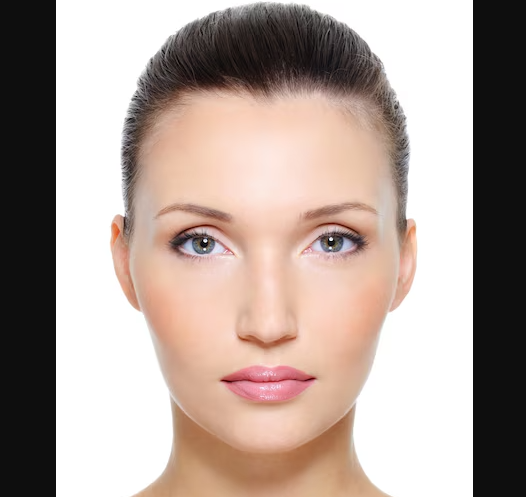
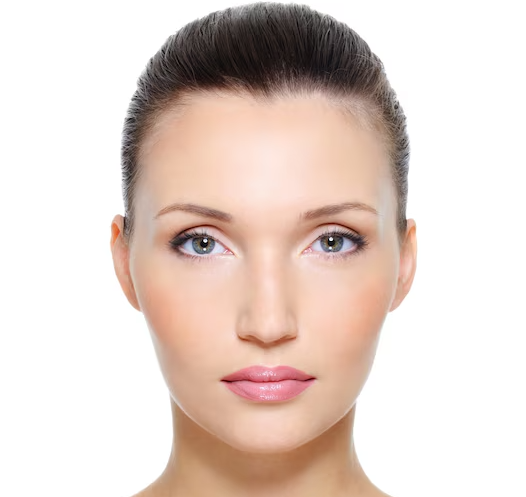
avec images exemples sans les bords noirs

Changed region(s): [[0.8821, 0.0, 1.0, 1.0], [0.0, 0.0, 0.1217, 1.0]]

diff --git a/src/projet/Hello.java b/src/projet/Hello.java
@@ -441,7 +441,7 @@ public class Hello extends Application {
             } catch (NumberFormatException ex) {
                 Text t = new Text();        
                 t.setTextAlignment(TextAlignment.JUSTIFY);
-                t.setText("Le nombre de frames doit être compris entre 5 et 144\net la durée doit être positive.");
+                t.setText("Le nombre de frames doit être compris entre 5 et 144\net la durée doit être positive.\nVos valeurs doivent être entière.");
                 VBox tmpvbox = new VBox();
                 tmpvbox.setAlignment(Pos.CENTER);  
                 tmpvbox.setPadding(new Insets(20));
